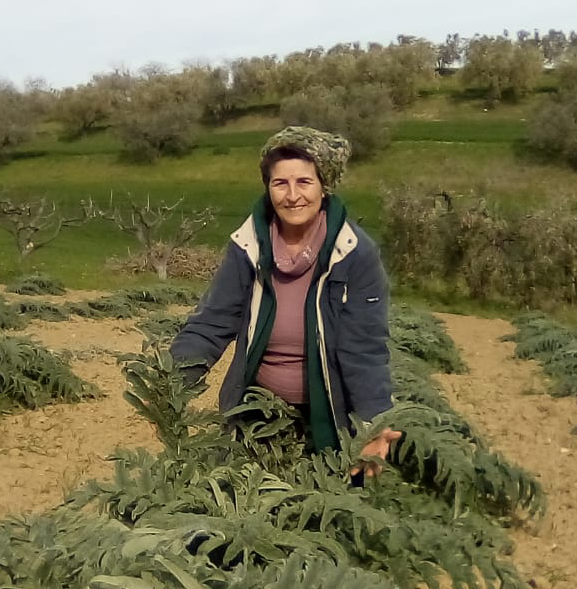
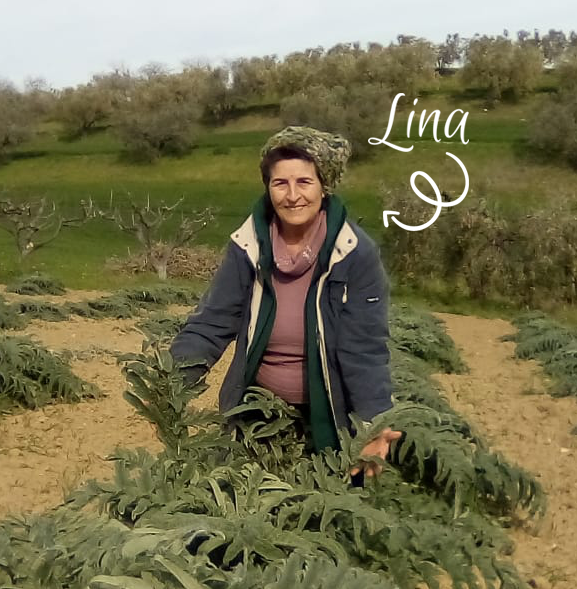
product page rectification

Changed region(s): [[0.6239, 0.1528, 0.8111, 0.3973]]

diff --git a/build/static/css/main.d3cf9710.chunk.css b/build/static/css/main.d3cf9710.chunk.css
@@ -1,0 +1,2 @@
+a,abbr,acronym,address,applet,article,aside,audio,b,big,blockquote,body,canvas,caption,center,cite,code,dd,del,details,dfn,div,dl,dt,em,embed,fieldset,figcaption,figure,footer,form,h1,h2,h3,h4,h5,h6,header,hgroup,html,i,iframe,img,ins,kbd,label,legend,li,mark,menu,nav,object,ol,output,p,pre,q,ruby,s,samp,section,small,span,strike,strong,sub,summary,sup,table,tbody,td,tfoot,th,thead,time,tr,tt,u,ul,var,video{margin:0;padding:0;border:0;font-size:100%;-webkit-margin-before:0;margin-block-start:0;-webkit-margin-after:0;margin-block-end:0;font:inherit;vertical-align:baseline;text-decoration:none}article,aside,details,figcaption,figure,footer,header,hgroup,menu,nav,section{display:block}body{line-height:1}ol,ul{list-style:none}blockquote,q{quotes:none}blockquote:after,blockquote:before,q:after,q:before{content:"";content:none}table{border-collapse:collapse;border-spacing:0}body{margin:0;font-family:serif;-webkit-font-smoothing:antialiased;-moz-osx-font-smoothing:grayscale}code{font-family:source-code-pro,Menlo,Monaco,Consolas,"Courier New",monospace}.mobile-nav{display:none;position:relative;margin-left:5em}.navigation{position:fixed;top:0;z-index:100;background-color:rgba(101,148,65,.6941176470588235);background-image:linear-gradient(#e3f8d5,hsla(0,0%,100%,0));width:100%;border:1px solid #036336;display:flex}.navigation-block{height:60px;width:100%;display:flex;align-items:center;justify-content:center;text-transform:uppercase}.navigation-title{padding-top:.3em;margin-right:.3em}.navigation-link{display:flex;justify-content:center;align-items:center;text-align:center}.navigation-list{display:flex;height:100%;position:relative}.navigation-list-item{font-family:"Amatic SC","Bradley Hand",serif;margin:0 1.5em;padding:.5em 0;color:#000;font-size:1.6em;font-weight:700}.navigation-full-logo{margin-right:3em}.navigation-logo{width:90px;-webkit-filter:drop-shadow(0 0 .3px #000);filter:drop-shadow(0 0 .3px black)}.navigation-logo:hover{-webkit-filter:drop-shadow(1px 1px 1px grey);filter:drop-shadow(1px 1px 1px grey)}.navigation-list-mobile-hidden{display:none}.navigation-list-mobile{position:absolute;top:50px;right:10px;width:150px;display:flex;flex-direction:column;justify-content:center;align-items:flex-end;background-color:hsla(0,0%,100%,.95);box-shadow:0 0 2px #000;font-size:1.5em}.navigation-link{margin:0 auto}.navigation-logo .active{border:none}@media(max-width:488px){.mobile-nav{height:60px;width:100%;display:flex;align-items:center;justify-content:center;text-transform:uppercase}.navigation-list{display:none}.navigation-logo{margin-left:2em}.navigation-list-item{font-size:1em}}*{box-sizing:border-box}header{height:100vh;overflow:hidden}header,section{width:100%;position:relative}.header{position:absolute;top:25%;left:0;width:100%;display:flex;flex-direction:column;justify-content:center;align-items:center}.header-logo{z-index:3;position:relative;top:-100px}.header-top{display:flex;justify-content:center}.header-title-logo{position:relative;width:400px;height:auto;-webkit-filter:drop-shadow(0 0 1px #fff);filter:drop-shadow(0 0 1px white)}.header-title{font-style:italic;font-weight:700;font-size:4.5em;color:#3f3f3f;text-shadow:0 0 2px #fff}.header-subtext{font-family:"Euphoria Script",serif;text-shadow:0 0 1px grey;font-size:3em;text-align:center}.header-subtitle-block{margin-top:4em;text-align:center;font-size:1.1em}.header-subtitle{font-style:italic;color:#fff;font-size:1.7em;text-shadow:0 0 10px #000;z-index:4}.header-arrows{margin-top:.2em;color:#fff;-webkit-filter:drop-shadow(0 0 5px #000);filter:drop-shadow(0 0 5px black);animation:floating 2s ease-in-out infinite}@keyframes floating{0%{transform:translatey(0) rotate(90deg)}50%{transform:translatey(15px) rotate(90deg)}to{transform:translatey(0) rotate(90deg)}}.header-shadow{position:absolute;bottom:100%;height:300px;width:100%;left:0;z-index:4}.header-bg-sky{right:left}.header-bg-field,.header-bg-sky{position:absolute;height:100%;width:100%;top:0;left:0}.header-bg-field{z-index:3}@media(max-width:488px){.header-title-logo{width:250px}.header-subtext{font-size:2em}.header-subtitle-block{margin-top:0}.header-subtitle{margin:auto;width:80%;font-size:1.3em}}@media(min-width:1024px)and (max-width:1450px){.header-title-logo{width:350px}.header-shadow{height:150px}}.main{min-height:100vh;width:100%;display:flex;align-items:center;z-index:99;position:relative;overflow:visible}.main-blocks-container{width:80%;margin:2em auto;display:flex;flex-direction:column}.main-blocks-pictures{width:100%;display:flex;justify-content:space-between}.main-blocks-text{margin:auto;background-color:hsla(0,0%,100%,.7);display:flex;flex-direction:column;align-items:center;padding:1em 6em}.main-presentation-block{flex:1 1;margin:auto .3em}.main-presentation-block img{box-shadow:0 0 5px #000}.main-presentation-picture{height:500px;width:100%;object-fit:cover}.main-presentation-description{padding:.3em 0;text-align:center;font-style:italic;font-size:1.4em}.main-presentation-description span{font-weight:700}@media(max-width:488px){.main-blocks-container{height:100%}.main-blocks-pictures{display:block}.main-presentation-block{text-align:center}.main-presentation-picture{height:300px;width:100%}.main-blocks-text{font-size:.8em;padding:.3em}}.about{min-height:100vh;width:100%;background:url(/static/media/champs.22036619.jpg) no-repeat;background-size:cover;display:flex;align-items:center}.about-container{display:grid;grid-template-columns:repeat(6,1fr);grid-auto-rows:250px}.about-container div:nth-child(2){grid-column:2;grid-row:1/3}.about-container div:nth-child(5){grid-column:4/6;grid-row:1/3}.about-container div:nth-child(13){grid-column:5/7;grid-row:3}.about-container div:nth-child(22){grid-column:3;grid-row:5/7}.about-container div:nth-child(25){grid-column:6;grid-row:5/7}.about-photos{background-color:hsla(0,0%,100%,0);transition:background-color 4s;border:1px solid #fff;box-shadow:0 0 2px #000}.about-photo{width:100%;height:100%;object-fit:cover}.about-text{text-align:center;position:relative;top:50%;left:50%;transform:translate(-50%,-50%);padding:1em;font-size:1.3em}@media(max-width:488px){.about-container{display:grid;grid-template-columns:repeat(2,1fr);grid-auto-rows:150px}.about-container div:nth-child(2){grid-column:2;grid-row:2/4}.about-container div:nth-child(5){grid-column:1/3;grid-row:4/6}.about-container div:nth-child(6){grid-column:1;grid-row:15/17}.about-container div:nth-child(13){grid-column:1/3;grid-row:8}.about-container div:nth-child(22){grid-column:1;grid-row:6/8}.about-container div:nth-child(23){grid-column:2;grid-row:9/11}.about-container div:nth-child(25){grid-column:1;grid-row:11/13}.about-photos{font-size:.8em}}.product{min-height:100vh}.product-parallax{min-height:100vh;display:flex;align-items:center;justify-content:center}.product-parallax-bgimg{width:100vw}.product-images{width:100%}.product-items{width:60%;margin:auto;display:flex;flex-wrap:wrap;justify-content:center}.product-text{font-family:"Amatic SC","Nunito",sans-serif;position:relative;top:50px;text-align:center;font-size:4em;color:#fff;font-weight:700;text-shadow:0 0 10px #000;margin-bottom:1em;z-index:1}.product-block{display:flex;flex-direction:column;align-items:center;width:33%;margin:-80px auto;z-index:1}.product-image{margin:auto 0;height:400px;width:auto}.product-image-title{position:relative;top:-80px;font-size:3em;background-color:wheat;padding:.6em 1.3em;width:380px;max-height:200px;border-radius:10px;box-shadow:0 0 10px #000;text-align:center}.product-block:hover{-webkit-filter:drop-shadow(0 0 5px #000);filter:drop-shadow(0 0 5px black)}.ui.modal>.image.content{align-items:center}.ui.header{position:relative;top:0;display:inline-block;text-align:left}.ui.modal>.content>.image{width:150px}.ui.dimmer{background-color:hsla(0,0%,100%,.726)}.mobile{display:none}@media(max-width:488px){.product-images-mobile{background-image:url(/static/media/champs2.6aaf2485.png);background-size:cover;height:100vh;display:flex;flex-direction:column;justify-content:space-evenly}.product-items{width:90%}.product-text{position:relative;top:10%;font-size:2.3em;margin-bottom:0}.product-block{width:30%;margin:0 auto;padding-top:2em;align-items:flex-end}.product-image{height:auto;width:100%;-webkit-filter:drop-shadow(0 0 5px #fff);filter:drop-shadow(0 0 5px white)}.product-image-title{position:relative;top:0;font-size:1em;padding:.3em;width:100%;height:50px;display:flex;justify-content:center;align-items:center;margin-top:2em}}.process{position:relative;height:100vh;width:100%;background:url(/static/media/champs.ee7c65d4.png);background-size:cover}.process-title{font-family:"Amatic SC","Nunito","Quicksand",serif;position:relative;top:1em;text-align:center;font-size:5em}.process-img{position:absolute;top:0;left:0}.process-imageDiv,.process-img{display:inline-block}.process-arrow{width:150px}.process-smile{opacity:1;width:80px}.process-text{display:inline-block;width:200px;background-color:hsla(0,0%,100%,.95);padding:.5em .2em}.process-text h1{text-decoration:underline;margin-bottom:.4em;text-shadow:0 0 1px #000;font-size:1.1em}.hidden{display:none}@media(max-width:488px){.process-img{display:none}.process-img-mobile{display:unset}.process-title{font-size:2em}.process-arrow,.process-smile,.process-text{width:60px}.process-text{width:300px}}.comments{display:flex;flex-direction:column;justify-content:center;align-items:center}.comments-section{min-height:100vh;width:100%;position:relative}.comments-blocks{display:flex;justify-content:center;align-items:center}.comments-title{text-align:center;font-family:"Amatic SC","Bradley Hand",serif;color:#fff;padding-top:1em;margin-bottom:1em;font-size:5em;font-weight:700;text-shadow:0 0 5px #000}.oneBlock,.wrapper{position:relative}.oneBlock{display:flex;flex-direction:column;justify-content:center;margin:0 2em 1em;height:350px;width:350px;background-color:hsla(0,0%,100%,.8);box-shadow:0 0 5px #000;border-radius:5px;-webkit-backface-visibility:hidden;backface-visibility:hidden;transition:transform 2.5s ease}.oneBlock-name{font-weight:700;font-size:1.5em;text-align:center}.oneBlock-comment{display:flex;justify-content:center;align-items:center;padding:1em;text-align:center;font-size:1.3em;font-style:italic}.back{position:absolute;top:0;left:0;transform:rotateY(180deg);transform-style:preserve-3d}@media(max-width:488px){.comments-blocks{display:block}.comments-title{font-size:3.5em;padding-top:.5em;margin-bottom:.5em}.oneBlock{height:250px;width:250px}.oneBlock-name{padding-top:.5em}.oneBlock-comment{font-size:1em}}.contact{min-height:100vh;width:100%;background:url(/static/media/contact.e8fa76f6.png);background-size:cover}.contact-div{height:100%;display:flex;flex-direction:column;align-items:center;justify-content:center}.contact-title{font-family:"Amatic SC","Bradley Hand",serif;font-size:4em;padding-top:1em}.contact-subtitle,.contact-title{font-weight:700;text-align:center}.contact-subtitle{width:90%;text-shadow:0 0 5px #fff;font-style:italic;font-size:1.6em;margin-top:1em}.contact-details{background-color:hsla(0,0%,100%,.4);margin-top:2em;padding:1em;border-radius:10px;text-align:center;font-size:2.4em}.contact-details h2{margin:.3em auto}.contact-details h2:first-child{font-weight:700}.contact-email{color:#04613f}.contact-email:hover{color:#04613f;text-shadow:0 0 2px #02482e;font-style:italic}.contact-tel{font-size:.9em}.contact-image{margin-top:2em;width:120px;text-align:center;-webkit-filter:drop-shadow(0 0 1px #000);filter:drop-shadow(0 0 1px black)}.contact-image:hover{-webkit-filter:drop-shadow(0 0 3px #000);filter:drop-shadow(0 0 3px black)}@media(max-width:488px){.contact-details a,.contact-details h2{font-size:.7em}.contact-details{background-color:hsla(0,0%,100%,.6)}.contact-image{margin:1em 0}.contact-tel a{font-size:.9em;font-weight:700;color:#000}}.home{font-family:"Nunito";position:relative;top:60px;display:flex;flex-direction:column}.navigation-list .active{background:linear-gradient(180deg,rgba(4,121,41,.632),transparent);text-shadow:0 0 1px #d3d3d3}.error{background:url(/static/media/spaghetti.46a67cd7.jpg) no-repeat;background-size:cover;height:100vh;width:100%}.error-text{font-family:"Amatic SC",serif;height:100%;display:flex;flex-direction:column;justify-content:center;align-items:center}.error-text h1{font-size:10em;font-weight:700;color:#fff;text-shadow:0 0 3px #000}.error-logo{height:230px;animation:beat 2.5s ease-in-out infinite}@keyframes beat{0%{transform:scale(1)}20%{transform:scale(1.2)}40%{transform:scale(1)}60%{transform:scale(1.2)}to{transform:scale(1)}}.error-logo:hover{transition:transform 1s;transform:scale(1.4);-webkit-filter:drop-shadow(0 0 3px #fff);filter:drop-shadow(0 0 3px #fff)}.app{font-family:"Bradley Hand",serif}
+/*# sourceMappingURL=main.d3cf9710.chunk.css.map */

diff --git a/build/index.html b/build/index.html
@@ -1,1 +1,1 @@
-<!doctype html><html lang="en"><head><meta charset="utf-8"/><link rel="icon" href="./coeur-solo.png"/><style>@import url(https://fonts.googleapis.com/css2?family=Source+Serif+Pro:ital,wght@0,300;0,400;0,600;0,700;1,400;1,600;1,700&display=swap);@import url(https://fonts.googleapis.com/css2?family=Amatic+SC:wght@400;700&family=Euphoria+Script&display=swap);@import url(https://fonts.googleapis.com/css2?family=Nunito:ital,wght@0,200;0,300;1,200;1,300&family=Quicksand:wght@300;400;500&display=swap);</style><meta name="viewport" content="width=device-width,initial-scale=1"/><meta name="theme-color" content="#000000"/><meta name="description" content="Website della Nonna M."/><link rel="apple-touch-icon" href="/logo192.png"/><link rel="manifest" href="/manifest.json"/><title>Nonna M.</title><link href="/static/css/2.85f7760d.chunk.css" rel="stylesheet"><link href="/static/css/main.a7d1f41b.chunk.css" rel="stylesheet"></head><body><noscript>You need to enable JavaScript to run this app.</noscript><div id="root"></div><script>!function(e){function r(r){for(var n,a,i=r[0],c=r[1],l=r[2],s=0,p=[];s<i.length;s++)a=i[s],Object.prototype.hasOwnProperty.call(o,a)&&o[a]&&p.push(o[a][0]),o[a]=0;for(n in c)Object.prototype.hasOwnProperty.call(c,n)&&(e[n]=c[n]);for(f&&f(r);p.length;)p.shift()();return u.push.apply(u,l||[]),t()}function t(){for(var e,r=0;r<u.length;r++){for(var t=u[r],n=!0,i=1;i<t.length;i++){var c=t[i];0!==o[c]&&(n=!1)}n&&(u.splice(r--,1),e=a(a.s=t[0]))}return e}var n={},o={1:0},u=[];function a(r){if(n[r])return n[r].exports;var t=n[r]={i:r,l:!1,exports:{}};return e[r].call(t.exports,t,t.exports,a),t.l=!0,t.exports}a.e=function(e){var r=[],t=o[e];if(0!==t)if(t)r.push(t[2]);else{var n=new Promise((function(r,n){t=o[e]=[r,n]}));r.push(t[2]=n);var u,i=document.createElement("script");i.charset="utf-8",i.timeout=120,a.nc&&i.setAttribute("nonce",a.nc),i.src=function(e){return a.p+"static/js/"+({}[e]||e)+"."+{3:"055822fa"}[e]+".chunk.js"}(e);var c=new Error;u=function(r){i.onerror=i.onload=null,clearTimeout(l);var t=o[e];if(0!==t){if(t){var n=r&&("load"===r.type?"missing":r.type),u=r&&r.target&&r.target.src;c.message="Loading chunk "+e+" failed.\n("+n+": "+u+")",c.name="ChunkLoadError",c.type=n,c.request=u,t[1](c)}o[e]=void 0}};var l=setTimeout((function(){u({type:"timeout",target:i})}),12e4);i.onerror=i.onload=u,document.head.appendChild(i)}return Promise.all(r)},a.m=e,a.c=n,a.d=function(e,r,t){a.o(e,r)||Object.defineProperty(e,r,{enumerable:!0,get:t})},a.r=function(e){"undefined"!=typeof Symbol&&Symbol.toStringTag&&Object.defineProperty(e,Symbol.toStringTag,{value:"Module"}),Object.defineProperty(e,"__esModule",{value:!0})},a.t=function(e,r){if(1&r&&(e=a(e)),8&r)return e;if(4&r&&"object"==typeof e&&e&&e.__esModule)return e;var t=Object.create(null);if(a.r(t),Object.defineProperty(t,"default",{enumerable:!0,value:e}),2&r&&"string"!=typeof e)for(var n in e)a.d(t,n,function(r){return e[r]}.bind(null,n));return t},a.n=function(e){var r=e&&e.__esModule?function(){return e.default}:function(){return e};return a.d(r,"a",r),r},a.o=function(e,r){return Object.prototype.hasOwnProperty.call(e,r)},a.p="/",a.oe=function(e){throw console.error(e),e};var i=this.webpackJsonpnonna=this.webpackJsonpnonna||[],c=i.push.bind(i);i.push=r,i=i.slice();for(var l=0;l<i.length;l++)r(i[l]);var f=c;t()}([])</script><script src="/static/js/2.788addb5.chunk.js"></script><script src="/static/js/main.1e34a1da.chunk.js"></script></body></html>
+<!doctype html><html lang="en"><head><meta charset="utf-8"/><link rel="icon" href="./coeur-solo.png"/><style>@import url(https://fonts.googleapis.com/css2?family=Source+Serif+Pro:ital,wght@0,300;0,400;0,600;0,700;1,400;1,600;1,700&display=swap);@import url(https://fonts.googleapis.com/css2?family=Amatic+SC:wght@400;700&family=Euphoria+Script&display=swap);@import url(https://fonts.googleapis.com/css2?family=Nunito:ital,wght@0,200;0,300;1,200;1,300&family=Quicksand:wght@300;400;500&display=swap);</style><meta name="viewport" content="width=device-width,initial-scale=1"/><meta name="theme-color" content="#000000"/><meta name="description" content="Website della Nonna M."/><link rel="apple-touch-icon" href="/logo192.png"/><link rel="manifest" href="/manifest.json"/><title>Nonna M.</title><link href="/static/css/2.85f7760d.chunk.css" rel="stylesheet"><link href="/static/css/main.d3cf9710.chunk.css" rel="stylesheet"></head><body><noscript>You need to enable JavaScript to run this app.</noscript><div id="root"></div><script>!function(e){function r(r){for(var n,a,i=r[0],c=r[1],l=r[2],s=0,p=[];s<i.length;s++)a=i[s],Object.prototype.hasOwnProperty.call(o,a)&&o[a]&&p.push(o[a][0]),o[a]=0;for(n in c)Object.prototype.hasOwnProperty.call(c,n)&&(e[n]=c[n]);for(f&&f(r);p.length;)p.shift()();return u.push.apply(u,l||[]),t()}function t(){for(var e,r=0;r<u.length;r++){for(var t=u[r],n=!0,i=1;i<t.length;i++){var c=t[i];0!==o[c]&&(n=!1)}n&&(u.splice(r--,1),e=a(a.s=t[0]))}return e}var n={},o={1:0},u=[];function a(r){if(n[r])return n[r].exports;var t=n[r]={i:r,l:!1,exports:{}};return e[r].call(t.exports,t,t.exports,a),t.l=!0,t.exports}a.e=function(e){var r=[],t=o[e];if(0!==t)if(t)r.push(t[2]);else{var n=new Promise((function(r,n){t=o[e]=[r,n]}));r.push(t[2]=n);var u,i=document.createElement("script");i.charset="utf-8",i.timeout=120,a.nc&&i.setAttribute("nonce",a.nc),i.src=function(e){return a.p+"static/js/"+({}[e]||e)+"."+{3:"055822fa"}[e]+".chunk.js"}(e);var c=new Error;u=function(r){i.onerror=i.onload=null,clearTimeout(l);var t=o[e];if(0!==t){if(t){var n=r&&("load"===r.type?"missing":r.type),u=r&&r.target&&r.target.src;c.message="Loading chunk "+e+" failed.\n("+n+": "+u+")",c.name="ChunkLoadError",c.type=n,c.request=u,t[1](c)}o[e]=void 0}};var l=setTimeout((function(){u({type:"timeout",target:i})}),12e4);i.onerror=i.onload=u,document.head.appendChild(i)}return Promise.all(r)},a.m=e,a.c=n,a.d=function(e,r,t){a.o(e,r)||Object.defineProperty(e,r,{enumerable:!0,get:t})},a.r=function(e){"undefined"!=typeof Symbol&&Symbol.toStringTag&&Object.defineProperty(e,Symbol.toStringTag,{value:"Module"}),Object.defineProperty(e,"__esModule",{value:!0})},a.t=function(e,r){if(1&r&&(e=a(e)),8&r)return e;if(4&r&&"object"==typeof e&&e&&e.__esModule)return e;var t=Object.create(null);if(a.r(t),Object.defineProperty(t,"default",{enumerable:!0,value:e}),2&r&&"string"!=typeof e)for(var n in e)a.d(t,n,function(r){return e[r]}.bind(null,n));return t},a.n=function(e){var r=e&&e.__esModule?function(){return e.default}:function(){return e};return a.d(r,"a",r),r},a.o=function(e,r){return Object.prototype.hasOwnProperty.call(e,r)},a.p="/",a.oe=function(e){throw console.error(e),e};var i=this.webpackJsonpnonna=this.webpackJsonpnonna||[],c=i.push.bind(i);i.push=r,i=i.slice();for(var l=0;l<i.length;l++)r(i[l]);var f=c;t()}([])</script><script src="/static/js/2.788addb5.chunk.js"></script><script src="/static/js/main.1e34a1da.chunk.js"></script></body></html>

diff --git a/src/components/Home/Main/index.js b/src/components/Home/Main/index.js
@@ -35,7 +35,7 @@ const Main = () => {
                 Et pour sublimer cette terre, il y a une femme, Nonna Maria, une cuisinière passionnée, qui a donné vie à ses récoltes.
                 </p>
                 <p className="main-presentation-description">
-                Et c'est ainsi, au détour d'une lasagne aux artichauds entre amis, d'un plat de pâtes sauce tomates maison, d'un "aperitivo" qu'est née l'envie de vous faire partager ces produits de la belle région d'Abruzzo et plus précisément de la ville de Cupello.
+                Et c'est ainsi, au détour d'une lasagne aux artichauts entre amis, d'un plat de pâtes sauce tomate maison, d'un "aperitivo" qu'est née l'envie de vous faire partager ces produits de la belle région d'Abruzzo et plus précisément de la ville de Cupello.
                 </p>
                 <p className="main-presentation-description">
                 Les produits d'une vie, les "<span >ricette speciale</span>" de Nonna, c'est cela que nous avons décidé de vous faire partager sur ce site. 

diff --git a/src/components/Home/Products/style.scss b/src/components/Home/Products/style.scss
@@ -14,14 +14,16 @@
     
     &-images{
         width: 100%;
-        // height: 100%;
+        height: 100%;
         // max-width: 100vw;
-        // display: flex;
-        // flex-direction: column;
+        display: flex;
+        flex-direction: column;
+        justify-content: center;
+        align-items: center;
     }
 
     &-items{
-        width: 60%;
+        width: 70%;
         margin: auto;
         display: flex;
         flex-wrap: wrap;
@@ -46,8 +48,10 @@
         flex-direction: column;
         align-items: center;
         width: 33%;
+        // background-color: pink;
+        // border: 1px solid red;
         // max-height: 550px;
-        margin: -80px auto;
+        // margin: 0;
         z-index: 1;
     }
 
@@ -62,7 +66,7 @@
             font-size: 3em;
             background-color: wheat;
             padding: .6em 1.3em;
-            width: 380px;
+            max-width: 380px;
             max-height: 200px;
             border-radius: 10px;
             box-shadow: 0 0 10px black;

diff --git a/src/reducers/products.js b/src/reducers/products.js
@@ -13,7 +13,7 @@ const initialState = {
         {
           image: tomate,
           shortName: 'tomates',
-          name: "Salsa picante",
+          name: "Sauces tomate",
           description: "Lorem ipsum dolor sit amet consectetur adipisicing elit. Omnis porro neque eos esse. Quae, tempore ipsum harum reprehenderit delectus vel." 
         },
         {
@@ -31,7 +31,7 @@ const initialState = {
         {
             image: truffe,
             shortName: 'truffe',
-            name: "Truffe blanche",
+            name: "Truffes",
             description: "Lorem ipsum dolor sit amet consectetur adipisicing elit. Omnis porro neque eos esse. Quae, tempore ipsum harum reprehenderit delectus vel."  
         },
         {
